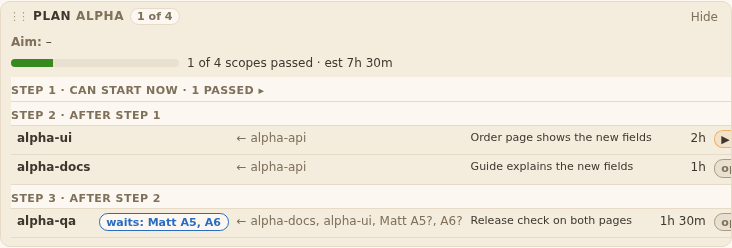
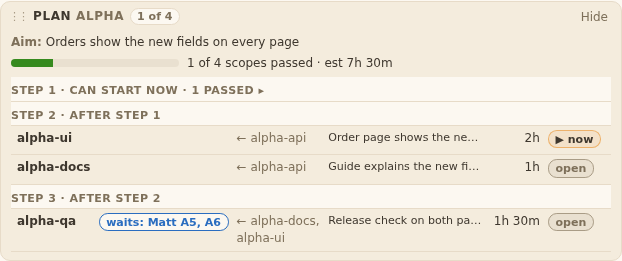
04: layout fix, grid test list, evidence, checks

diff --git a/templates/board/panel_plan.js b/templates/board/panel_plan.js
@@ -96,8 +96,8 @@
       ".pl-step.fold td{cursor:pointer}.pl-step button{border:0;background:none;padding:0;font:inherit;color:inherit;text-transform:inherit;letter-spacing:inherit;cursor:pointer}" +
       ".pl-r{cursor:default}.pl-r td:first-child{padding-left:6px}.pl-r.pl-hov td{box-shadow:none}.pl-r.pl-hov td:first-child,.pl-r:focus td:first-child{box-shadow:inset 3px 0 var(--ink)}" +
       ".pl-r.pl-dep td{background:var(--t-idle)}.pl-id{font-weight:700;white-space:nowrap}.pl-dp,.pl-est{white-space:nowrap}.pl-dp{color:var(--muted)}.pl-est{text-align:right}" +
-      ".pl-tt{font-weight:700;display:-webkit-box;-webkit-line-clamp:2;-webkit-box-orient:vertical;overflow:hidden;overflow-wrap:anywhere}" +
-      ".pl-sp{color:var(--muted);font-size:.92em}.pl-a{font-size:.92em;max-width:22em;white-space:nowrap;overflow:hidden;text-overflow:ellipsis}.pl-a2{display:none;color:var(--muted);font-size:.92em}" +
+      ".pl-t td:nth-child(2){min-width:9em}.pl-tt{font-weight:700;display:-webkit-box;-webkit-line-clamp:2;-webkit-box-orient:vertical;overflow:hidden;overflow-wrap:anywhere}" +
+      ".pl-sp{color:var(--muted);font-size:.92em}.pl-a{font-size:.92em;max-width:15em;white-space:nowrap;overflow:hidden;text-overflow:ellipsis}.pl-a2{display:none;color:var(--muted);font-size:.92em}" +
       ".pl-t.goal .pl-dp{white-space:normal;min-width:7em}.pl-st{white-space:nowrap}.pl-st .chip{margin:0 2px 2px 0}.pl-r.done td{color:var(--muted)}" +
       "@container plan (max-width:560px){.pl-a{display:none}.pl-a2{display:block}}";
     root.document.head.appendChild(s);

diff --git a/tests/test_squadboard_grid.py b/tests/test_squadboard_grid.py
@@ -18,7 +18,7 @@ import squadboard  # noqa: E402
 from test_squadboard_page import CHROME, TPL  # noqa: E402
 from test_squadboard_panels import HEAD, real_payloads, run_page  # noqa: E402
 
-SCRIPTS = ("panel_inbox.js", "panel_scopes.js", "panel_tasks.js", "panel_agents.js", "panel_plan.js", "panel_files.js", "timeline.js")
+SCRIPTS = ("panel_inbox.js", "panel_scopes.js", "panel_tasks.js", "panel_agents.js", "panel_files.js", "timeline.js")
 HEAD_ALL = HEAD.replace('<script src="file://%(tpl)s/panel_scopes.js"></script>',
                         "".join('<script src="file://%%(tpl)s/%s"></script>' % f for f in SCRIPTS), 1)
 

diff --git a/.scratch/po-clarity/issues/04-plan-panel/evidence.md b/.scratch/po-clarity/issues/04-plan-panel/evidence.md
@@ -1,0 +1,14 @@
+# 04 Plan panel: evidence
+
+## Behaviour
+
+Scope `checkout` in `squad-board --demo`: steps, arrows, `over estimate` chip, folded passed step, loop-free.
+
+![scope plan](img/plan-scope.png)
+
+Goal `alpha`: scope rows by step, outside waits as a `waits:` chip.
+
+![goal plan](img/plan-goal.png)
+
+Tests run (SQUAD_* unset, from `tests/`): `test_squadplan`, `test_squadboard_panels` (new `Plan04`), `test_squadboard_server` (new `PlanRouteTest`), `test_squadboard_page`, `test_squadboard_grid`, `test_squadboard_demo`: all OK. SQ-10 trio `test_windows_safe`, `test_utf8_helpers`, `test_instructions` plus `test_rules_wording`, `test_rules_contract`, `test_processlint`: OK.
+Grid tests keep their fixed five-panel script list (the plan panel is not loaded there); demo panel counts now include `plan`.

diff --git a/.scratch/po-clarity/issues/04-plan-panel/checks.md b/.scratch/po-clarity/issues/04-plan-panel/checks.md
@@ -1,0 +1,9 @@
+| AC | Dev: test or capture | QA whitebox: check | QA blackbox: check |
+|---|---|---|---|
+| AC1 | `Plan04.test_T04_AC1_steps_with_deps_arrows` OK | - | - |
+| AC2 | `test_squadplan` goal rows; goal screenshot OK | - | - |
+| AC3 | `Plan04.test_T04_AC3_over_estimate_boundary...` (90 no chip, 91 chip) OK | - | - |
+| AC4 | `Plan04.test_T04_AC4_missing_aim...` OK | - | - |
+| AC5 | `test_processlint`, `test_rules_contract`, `test_rules_wording` OK | - | - |
+| AC6 | `PlanRouteTest` (bad Host 403, no write route) OK | - | - |
+| AC7 | `test_squadboard_demo` OK; 2 screenshots in evidence.md | - | - |
